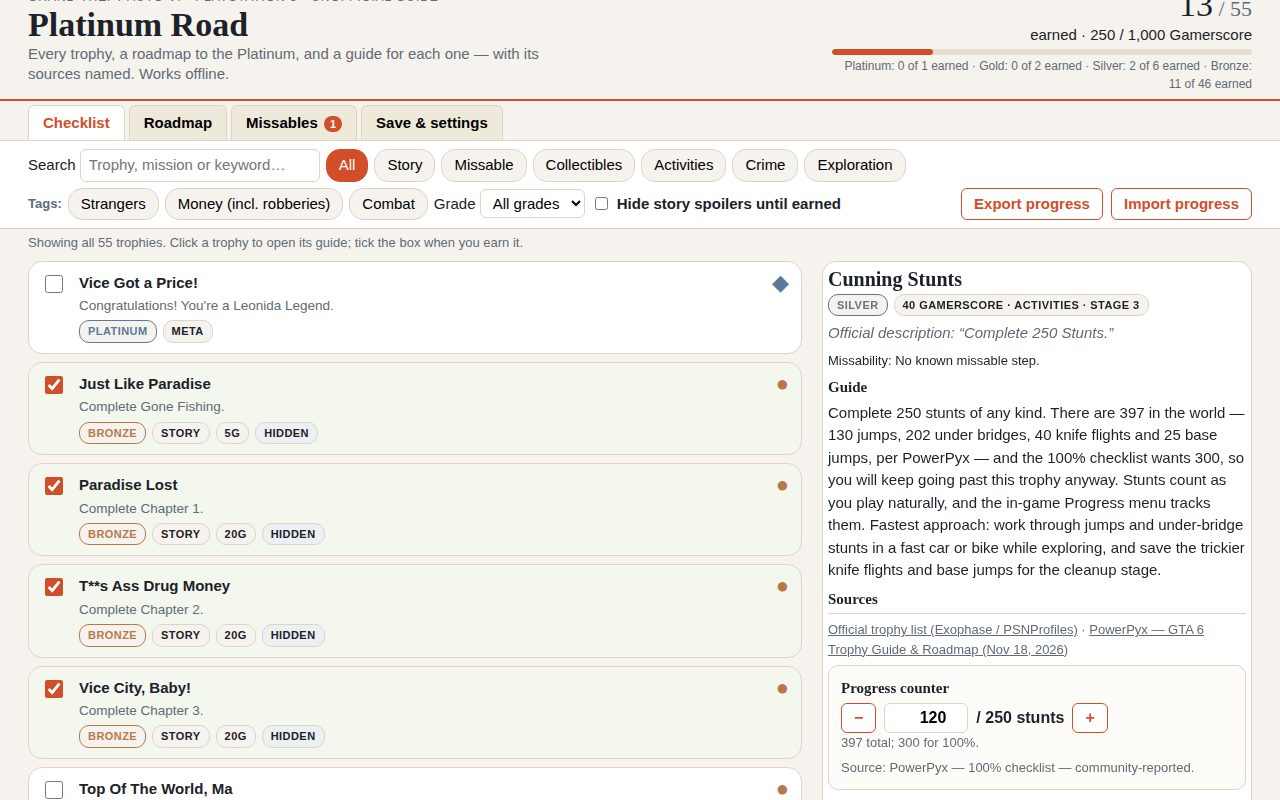
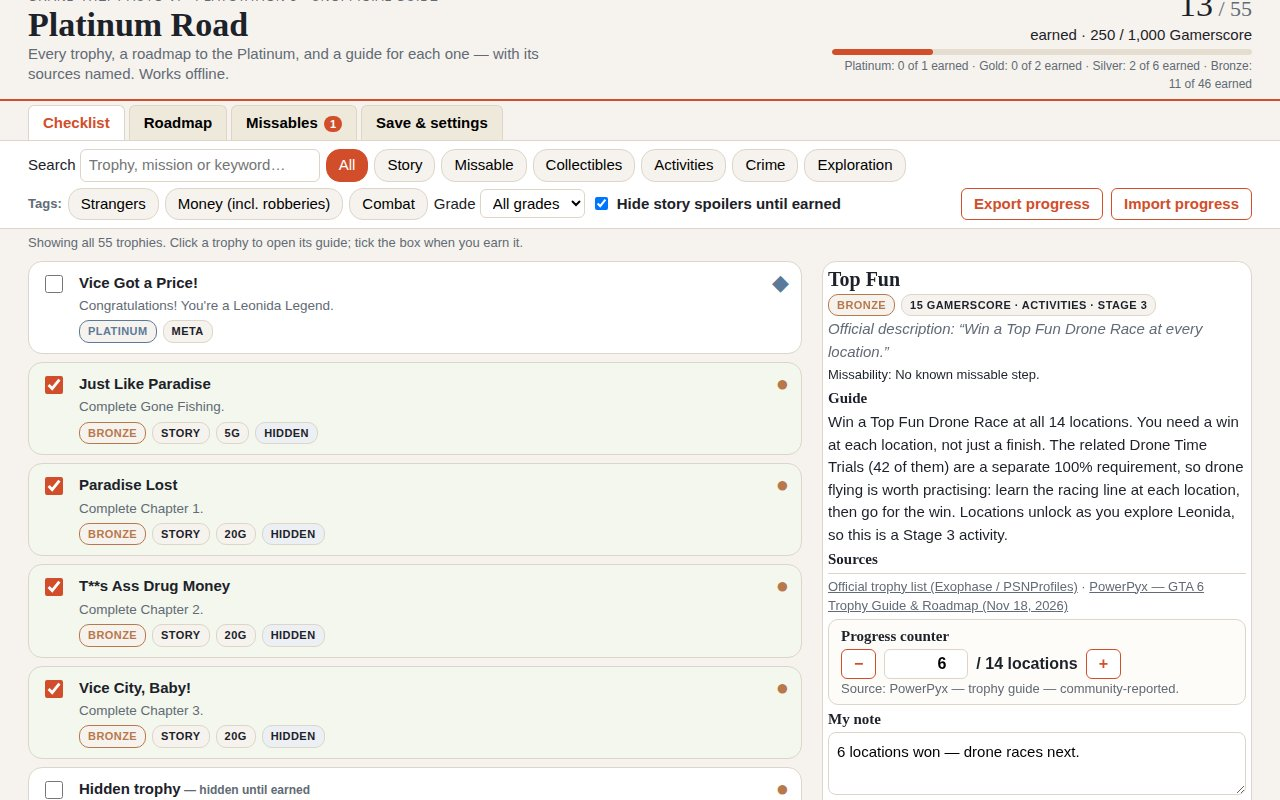
Platinum Road v2 fix: shot 4 shows Top Fun counter + saved note
Reframe shot 4 on Top Fun (id 18): counter 6/14 locations with source
plus saved note '6 locations won - drone races next.', title fully
visible. Measured every counter pane: only Earn Cash fit before; a
small guide-pane spacing trim (byte-neutral digit swaps in style.css,
no font-size change) lets Top Fun's note fit with 5px spare. All four
screenshots re-captured fresh with the new CSS; shots.json updated
(trophy 15 -> 18). Dossier Totals 12,448 bytes gzip-9 (cap 12,500);
makefun check 4 passed, 0 failed; export/import round trip passes.

Changed region(s): [[0.625, 0.3438, 0.9688, 0.9688], [0.0625, 0.9688, 0.25, 1.0]]

diff --git a/app/style.css b/app/style.css
@@ -102,21 +102,21 @@ main { padding: 8px 28px 28px; }
   border-radius: 14px; padding: 5px; max-height: calc(100vh - 24px); overflow: auto;
 }
 .guide-pane h2 { margin: 0 0 3px; font-size: 20px; line-height: 1.2; }
-.guide-pane .official-desc { color: var(--muted); font-style: italic; margin: 0 0 6px; }
-.guide-pane h3 { margin: 6px 0 3px; font-size: 15px; }
-.guide-pane p { margin: 0 0 6px; }
+.guide-pane .official-desc { color: var(--muted); font-style: italic; margin: 0 0 2px; }
+.guide-pane h3 { margin: 2px 0 2px; font-size: 15px; }
+.guide-pane p { margin: 0 0 2px; }
 .guide-text { font-size: 15px; }
-.sources { font-size: 13px; color: var(--muted); border-top: 1px solid var(--line); padding-top: 6px; }
+.sources { font-size: 13px; color: var(--muted); border-top: 1px solid var(--line); padding-top: 3px; }
 .sources a { color: var(--muted); }
 .verification-note { font-size: 13px; background: var(--accent-soft); border-radius: 6px; padding: 8px 10px; }
 .verification-note.unconfirmed { background: #fff4d6; }
 .empty-pane { color: var(--muted); }
 /* v2: progress counter and personal note in the guide pane. */
-.counter-box { border: 1px solid var(--line); border-radius: 10px; padding: 5px 12px; margin: 6px 0; background: #fdfcf9; }
+.counter-box { border: 1px solid var(--line); border-radius: 10px; padding: 3px 12px; margin: 3px 0; background: #fdfcf9; }
 .counter-box .counter-line { display: flex; gap: 8px; align-items: center; flex-wrap: wrap; font-weight: 700; font-size: 16px; }
 .counter-box button { border: 1px solid var(--accent); background: #fff; color: var(--accent); border-radius: 6px; padding: 2px 12px; font-weight: 700; font-size: 16px; }
 .counter-box input { font: inherit; font-weight: 700; width: 84px; padding: 2px 6px; border: 1px solid var(--line); border-radius: 6px; text-align: right; }
-.counter-src { font-size: 13px; color: var(--muted); margin: 4px 0 0; }
+.counter-src { font-size: 13px; color: var(--muted); margin: 2px 0 0; }
 .condition-box { border: 1px solid var(--line); border-radius: 10px; padding: 10px 12px; margin: 10px 0; background: #fdfcf9; }
 .condition-box p { margin: 0; }
 .note-box textarea {
